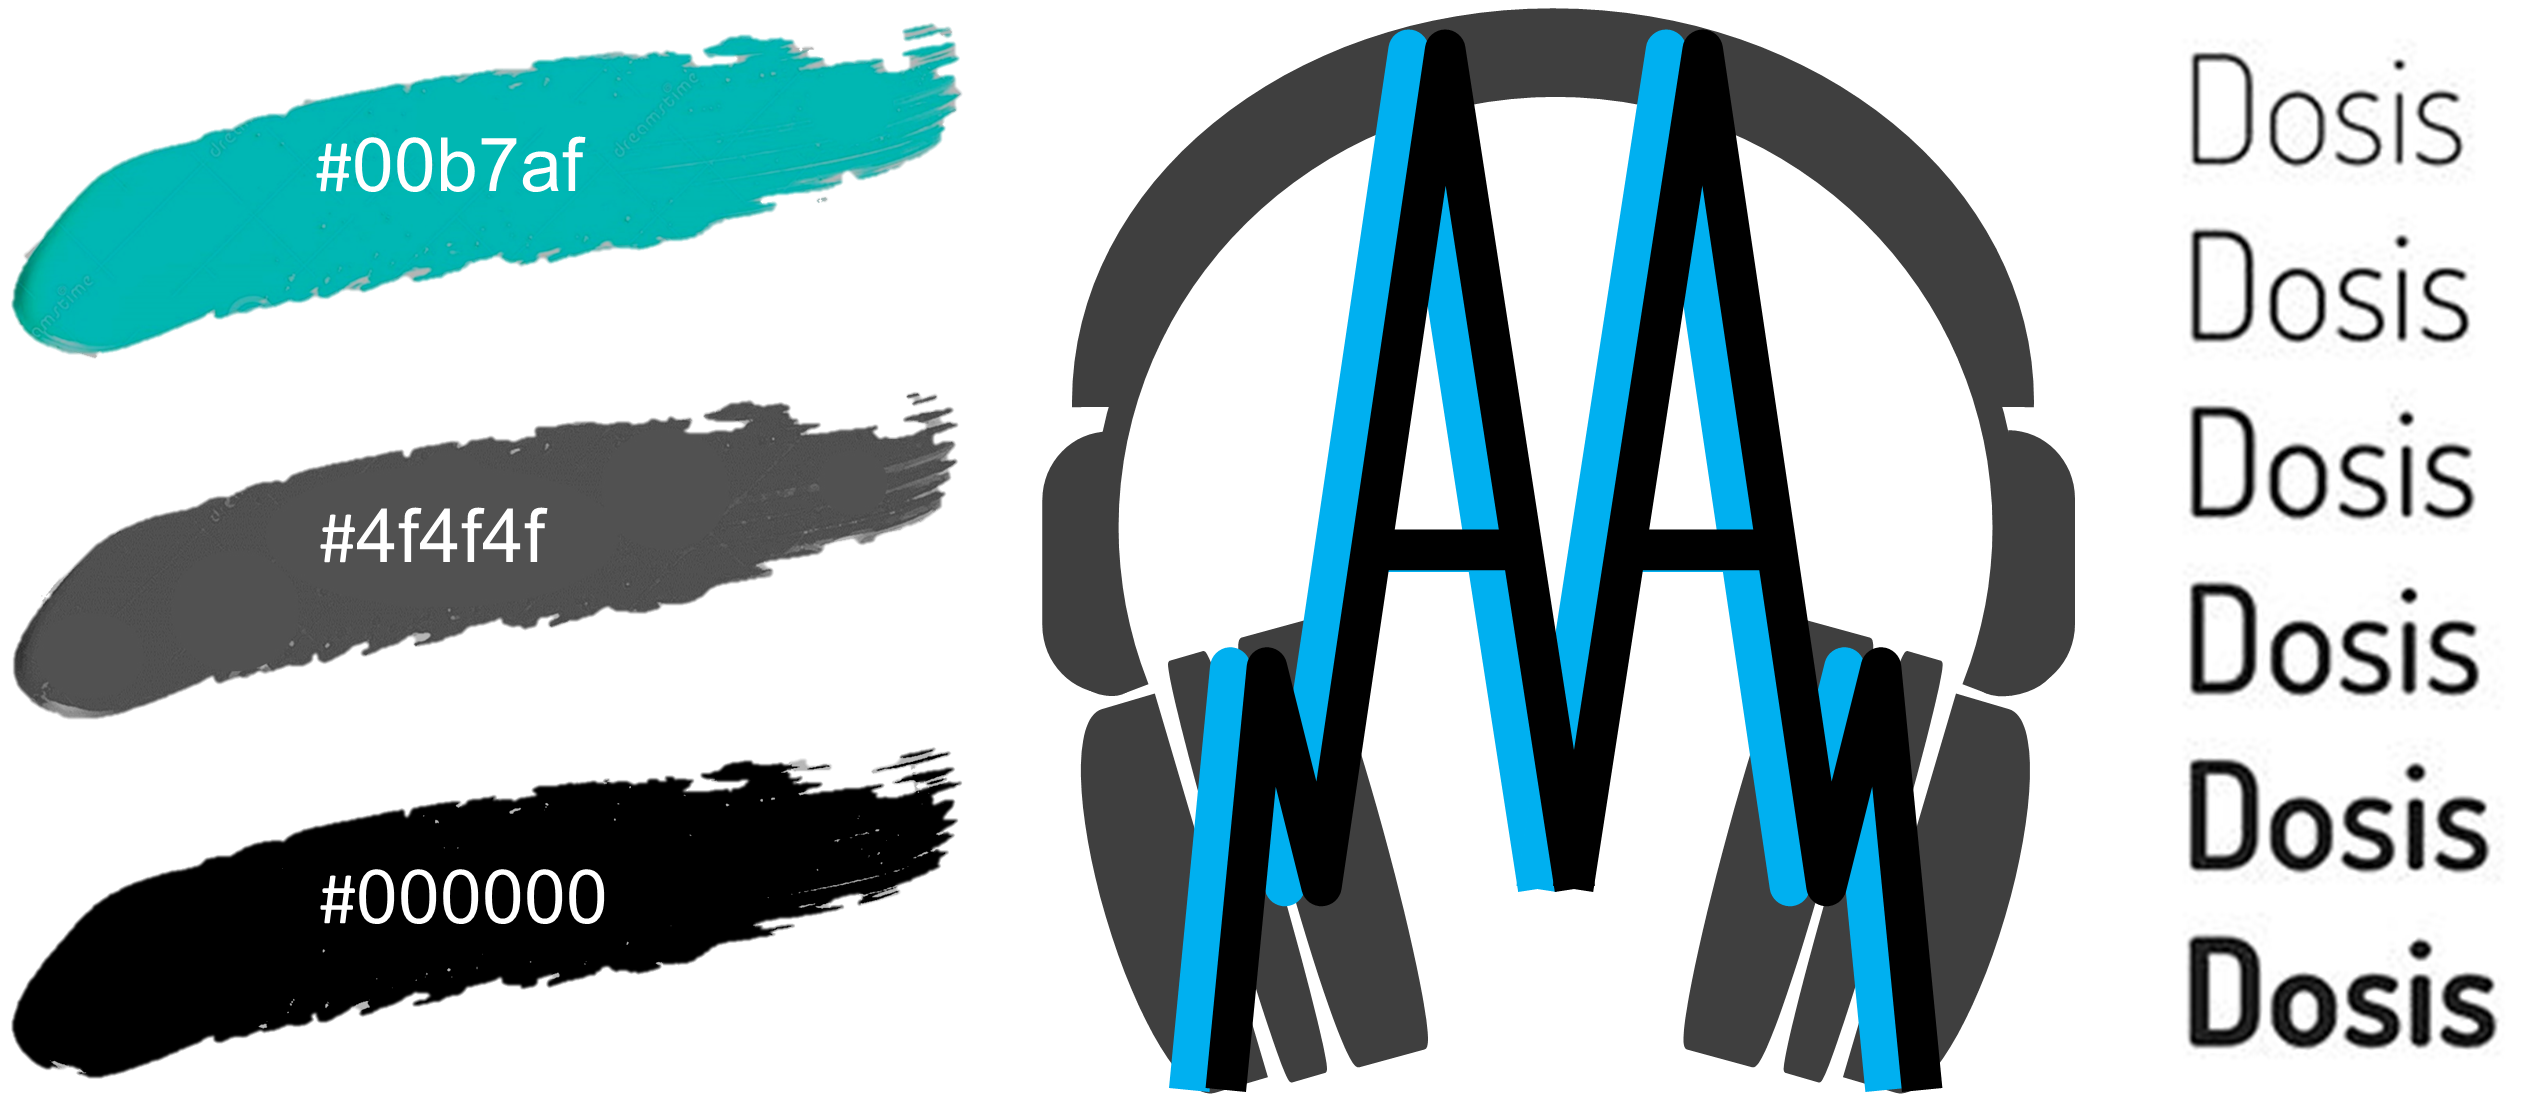
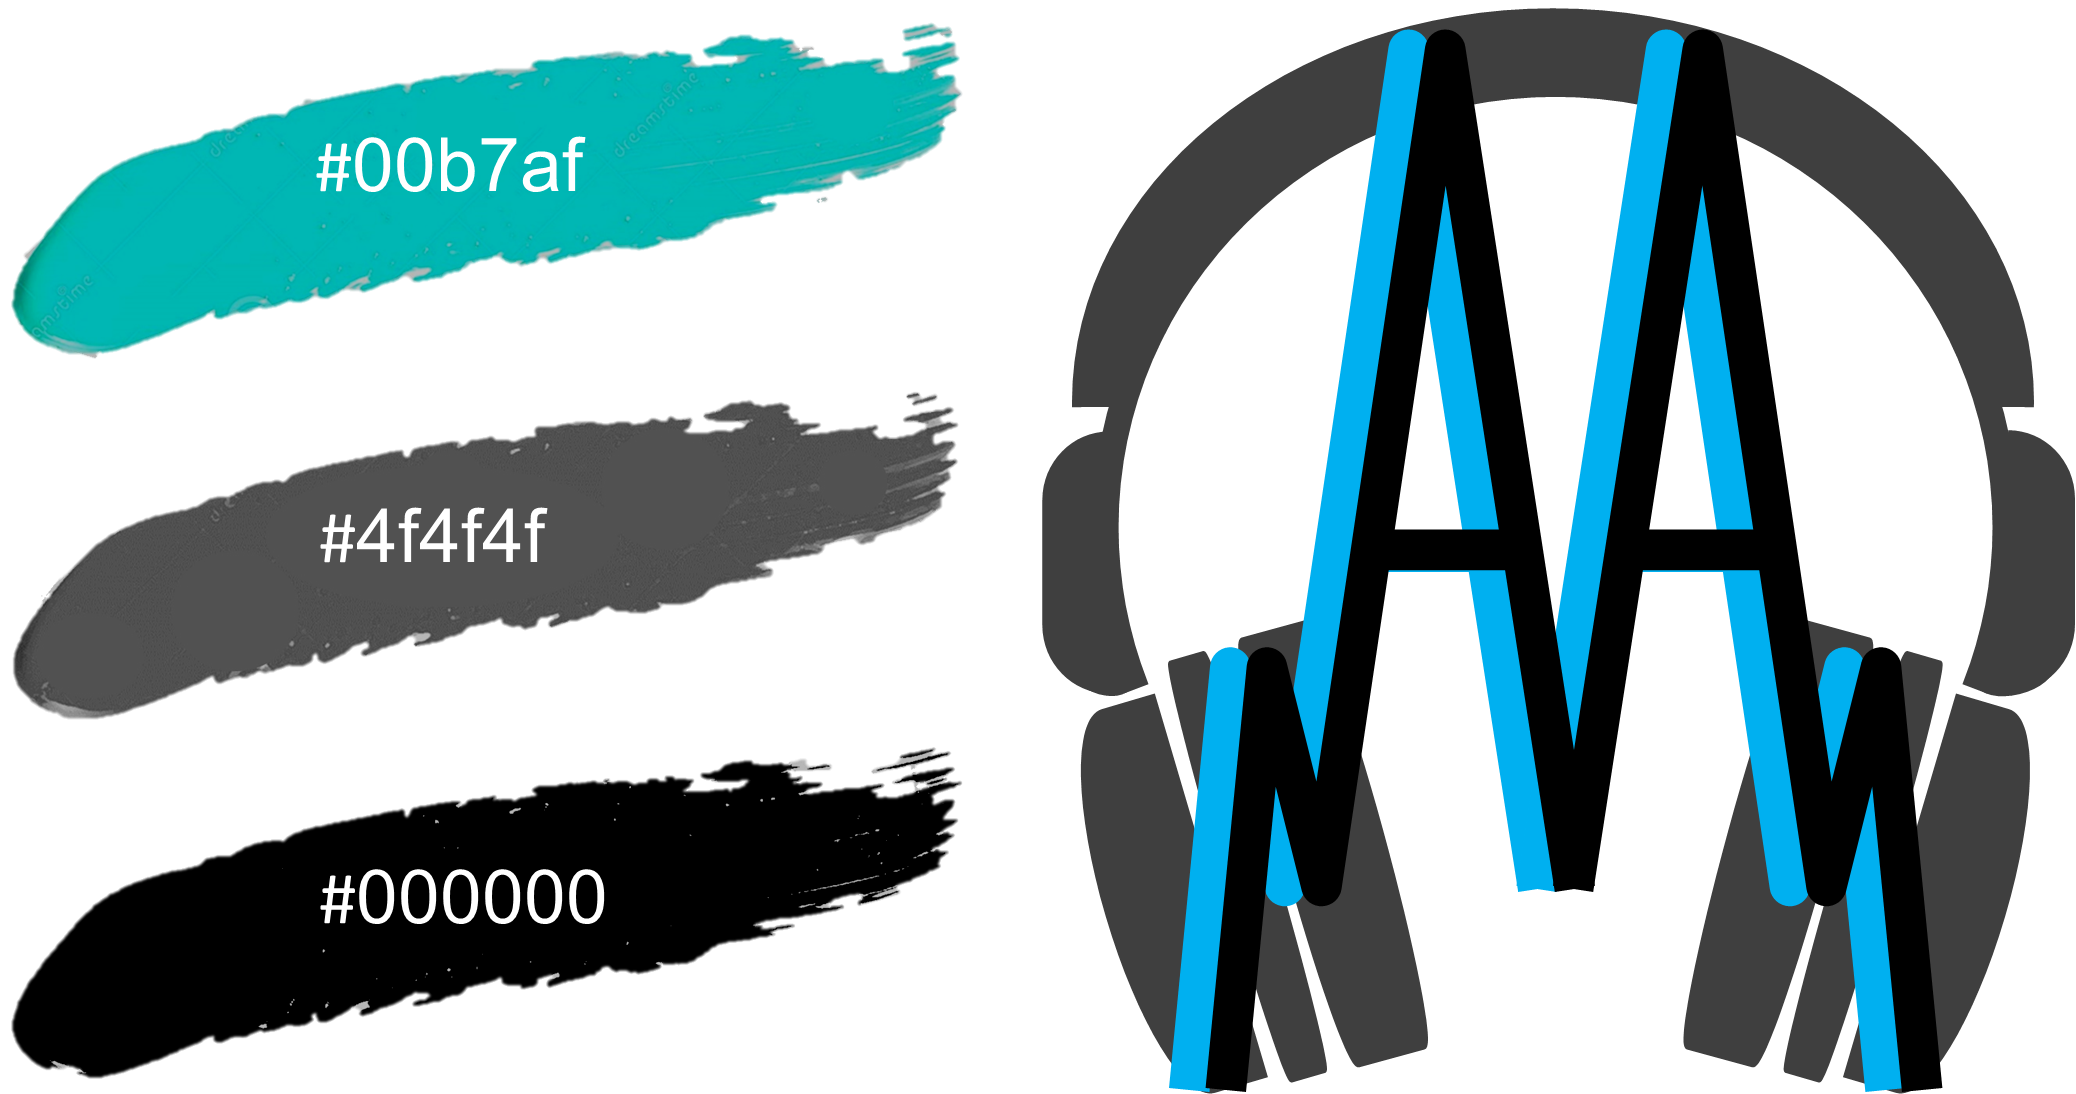
adding images and text to readme.md

diff --git a/README.md b/README.md
@@ -152,7 +152,7 @@ Below is a table of opportunities for the project, together with a score of thei
 
 #### **Database Schema**
 
-I have decided to use a relational database as this will best suit my requirements, given the type of Data that I will be using in this project.
+I have decided to use a relational database as this will best suit my requirements, given the type of Data that I will be using in this project. [Draw Sql](https://drawsql.app/) has been used to provide a diagram of this schema.
 
 ![Database Schema V1](/static/images/readme/drawSQL-awdio-aber-export-2023-01-23.png)
 
@@ -277,3 +277,20 @@ Add Review Page Wireframe
 Toasts - Toasts are used to display messages to the user depending on their actions on the site. They can let users know if an action has been successful, if there has been an error or for displaying a general message. This is also reflected in the colour at the top of the toast. Toasts will also be used to display to a user what they currently have in their bag when they add a new product. Toasts can be dismissed by clicking the X on the toast.
 
 Toasts Wireframe
+
+---
+
+## Surface Plane
+### **Colour Scheme**
+
+The aesthetic for the website is going to be far more masculine than in previous projects.  I designed the logo using [Publisher](https://www.microsoft.com/en-us/microsoft-365/publisher) and is a play on electricity and soundwaves. I'm really keen for the site to maintain high levels of accesibility, so colors will be kept to a minimum and will have a high level of contrast.
+
+
+![Surface Plane](/static/images/readme/surface-plane.png)
+
+
+I used [Fontjoy](https://fontjoy.com) to help me pick fonts. [Megrim](https://fonts.google.com/specimen/Megrim) will be used as the Logo font as I really love its retro/futuristic feel but would be too hard to read if used widely. [Dosis](https://fonts.google.com/specimen/Dosis) will be used for any header text as I like its stylish look across a range of weight, as well as it being easy to read. [Ubuntu](https://fonts.google.com/specimen/Ubuntu) will be used for any body text. I feel it pairs really well with Dosis and is very easy to read. Text will mostly be black, with some use of grey ensuring that it is still readable and high contrast.
+
+![Fontjoy](/static/images/readme/fontjoy.png)
+
+---
